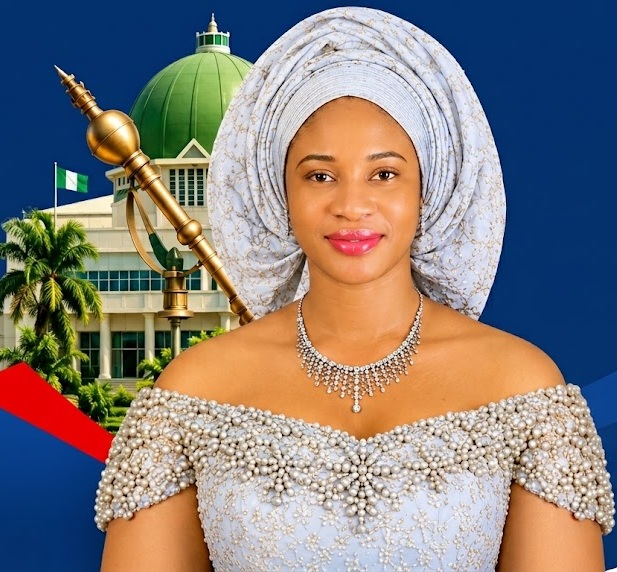
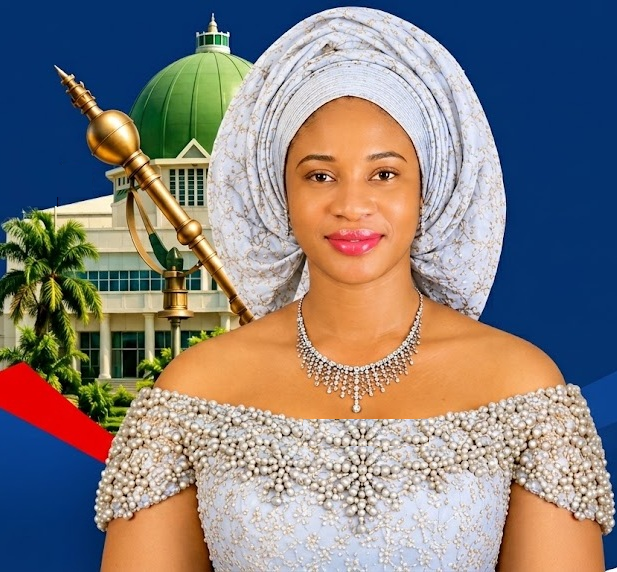
Update footer and replace official photo

Changed region(s): [[0.4927, 0.7133, 0.7083, 0.8024], [0.0616, 0.2675, 0.154, 0.3566]]

diff --git a/src/components/Footer.jsx b/src/components/Footer.jsx
@@ -92,19 +92,19 @@ const Footer = () => {
                 <Facebook />
               </IconButton>
               {/* Facebook Page */}
-              <IconButton component="a" href="https://facebook.com/chidinmachukwumaofficial" target="_blank" rel="noopener noreferrer" aria-label="Facebook Page" className="social-btn fb-page">
+              {/* <IconButton component="a" href="https://facebook.com/chidinmachukwumaofficial" target="_blank" rel="noopener noreferrer" aria-label="Facebook Page" className="social-btn fb-page">
                 <Facebook />
-              </IconButton>
+              </IconButton> */}
               {/* Instagram */}
               <IconButton component="a" href="https://www.instagram.com/chidinmachukwumaofficial?igsi=MW5xbDJ6dnhodHJ6cQ==" target="_blank" rel="noopener noreferrer" aria-label="Instagram" className="social-btn ig">
                 <Instagram />
               </IconButton>
               {/* Twitter/X */}
-              <IconButton component="a" href="https://x.com/VoteChidinma" target="_blank" rel="noopener noreferrer" aria-label="Twitter X" className="social-btn tw">
+              <IconButton component="a" href="https://x.com/Chidinmaofficl" target="_blank" rel="noopener noreferrer" aria-label="Twitter X" className="social-btn tw">
                 <Twitter />
               </IconButton>
               {/* TikTok */}
-              <IconButton component="a" href="https://tiktok.com/@honchidinmachukuma" target="_blank" rel="noopener noreferrer" aria-label="TikTok" className="social-btn tt">
+              <IconButton component="a" href="https://vt.tiktok.com/ZSbyKosG7/" target="_blank" rel="noopener noreferrer" aria-label="TikTok" className="social-btn tt">
                 <Typography variant="caption" style={{ fontWeight: 800 }}>TT</Typography>
               </IconButton>
               {/* YouTube */}
